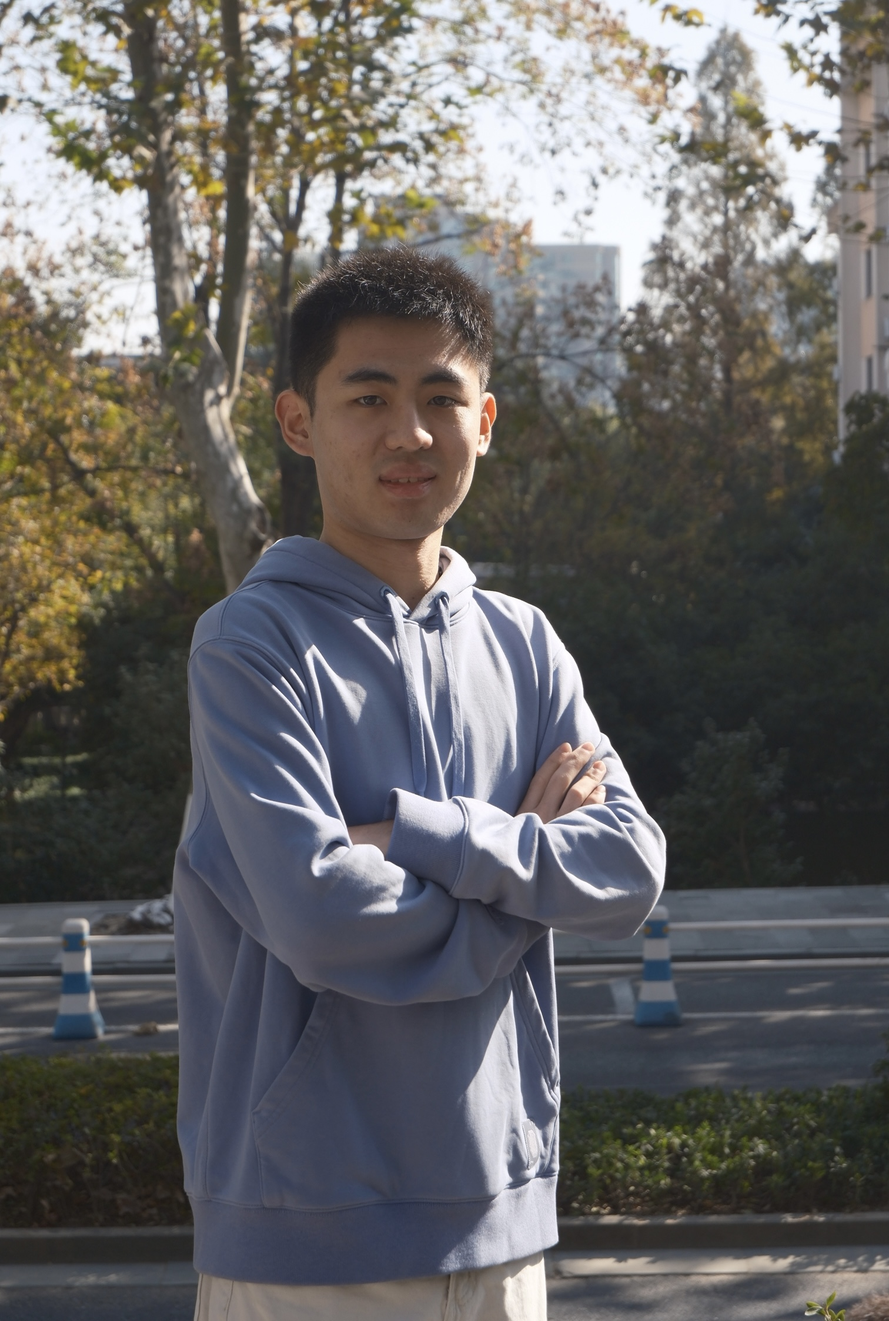
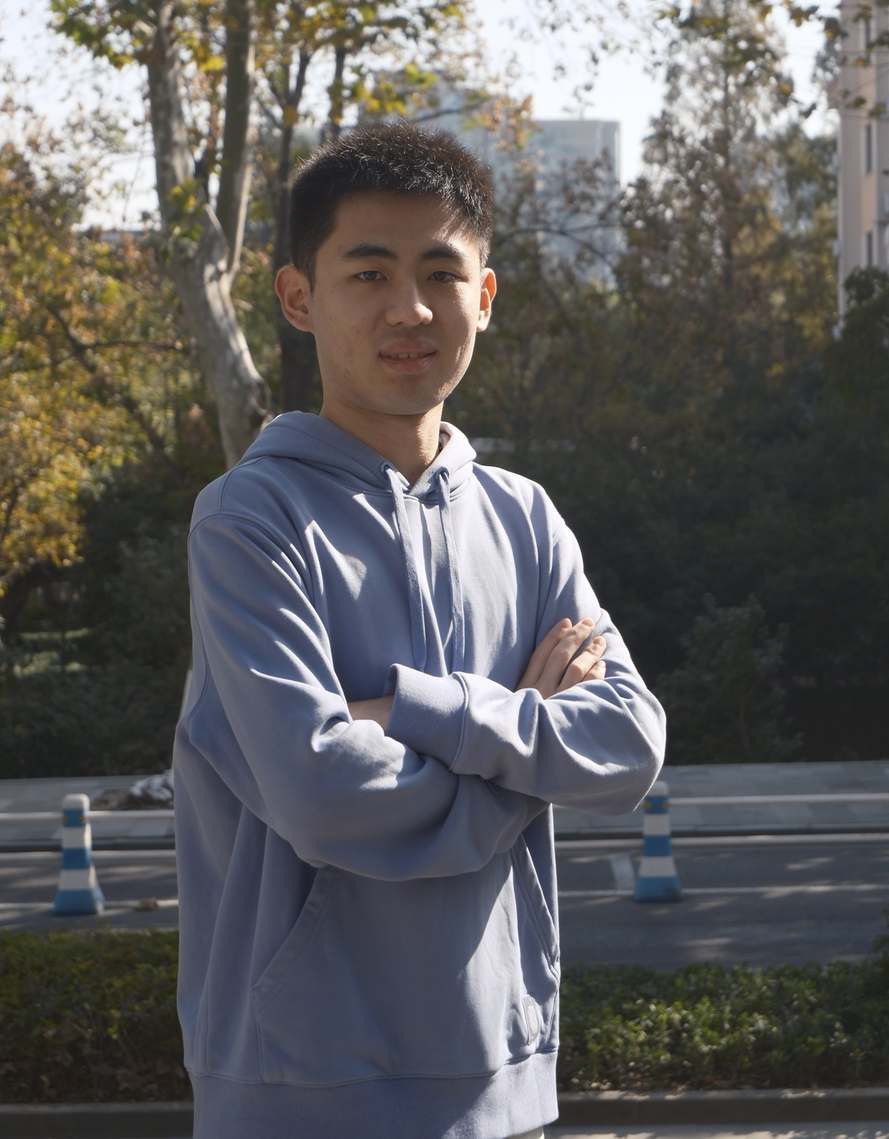
change my image

diff --git a/index.html b/index.html
@@ -18,7 +18,7 @@
         <td style="padding:0px">
           <table style="width:100%;border:0px;border-spacing:0px;border-collapse:separate;margin-right:auto;margin-left:auto;"><tbody>
             <tr style="padding:0px">
-              <td style="padding:2.5%;width:63%;vertical-align:middle">
+              <td style="padding:2.5%;width:63%;vertical-align:top">
                 <p class="name" style="text-align: center;">
                   Jiaxin Li
                 </p>
@@ -34,8 +34,8 @@
                   <a href="https://github.com/Dustbin-Li">Github</a>
                 </p>
               </td>
-              <td style="padding:2.5%;width:37%;max-width:37%">
-                <a href="images/lijiaxin.jpeg"><img style="width:100%;max-width:100%;object-fit: cover;" alt="profile photo" src="images/lijiaxin.jpeg" class="hoverZoomLink"></a>
+              <td style="padding:2.5%;width:37%;max-width:37%;vertical-align:top">
+                <a href="images/lijiaxin.jpeg"><img style="width:85%;max-width:85%;object-fit: cover;" alt="profile photo" src="images/lijiaxin.jpeg" class="hoverZoomLink"></a>
               </td>
             </tr>
           </tbody></table>
